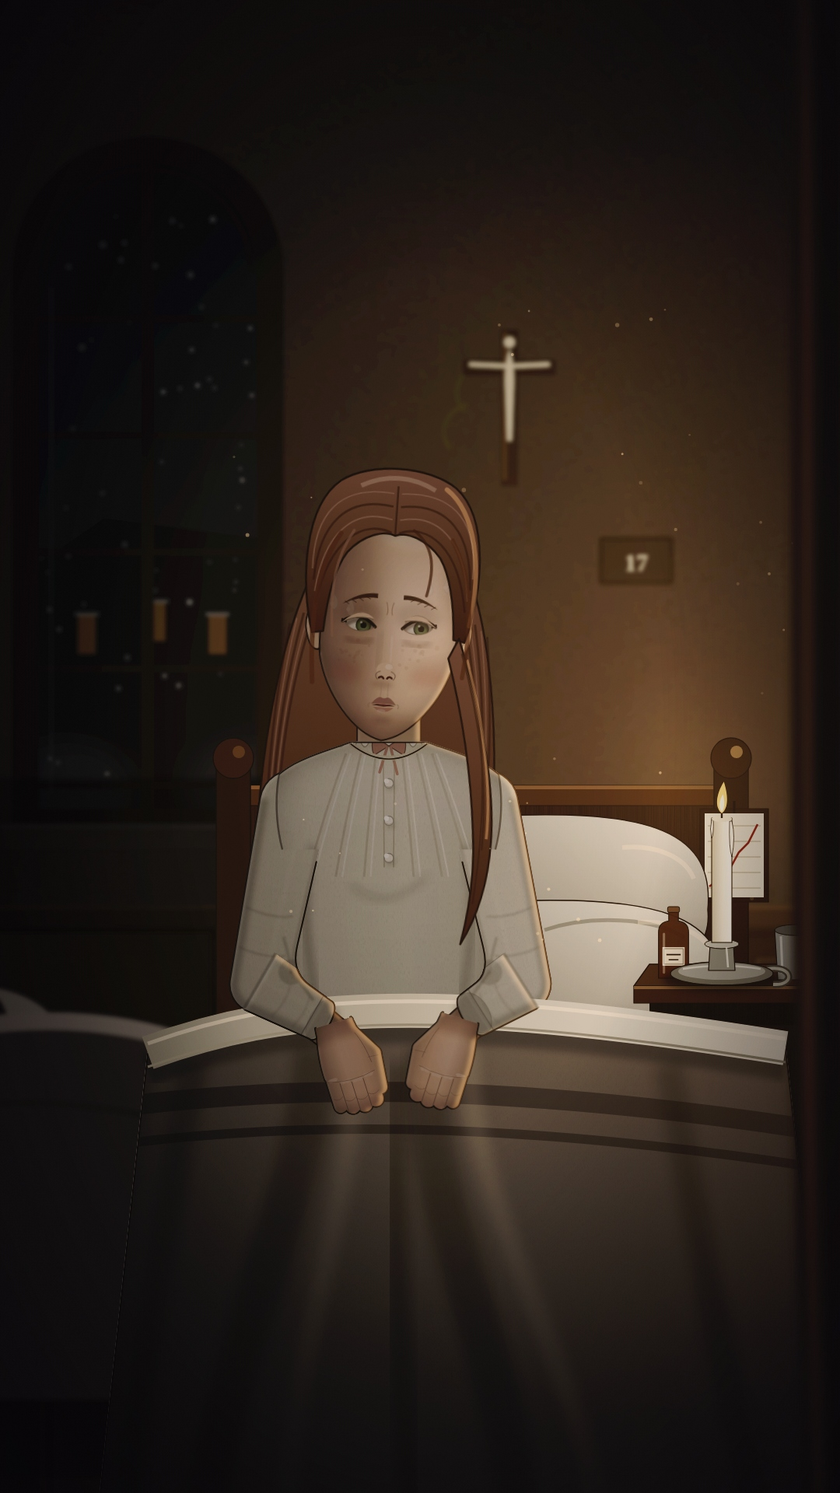
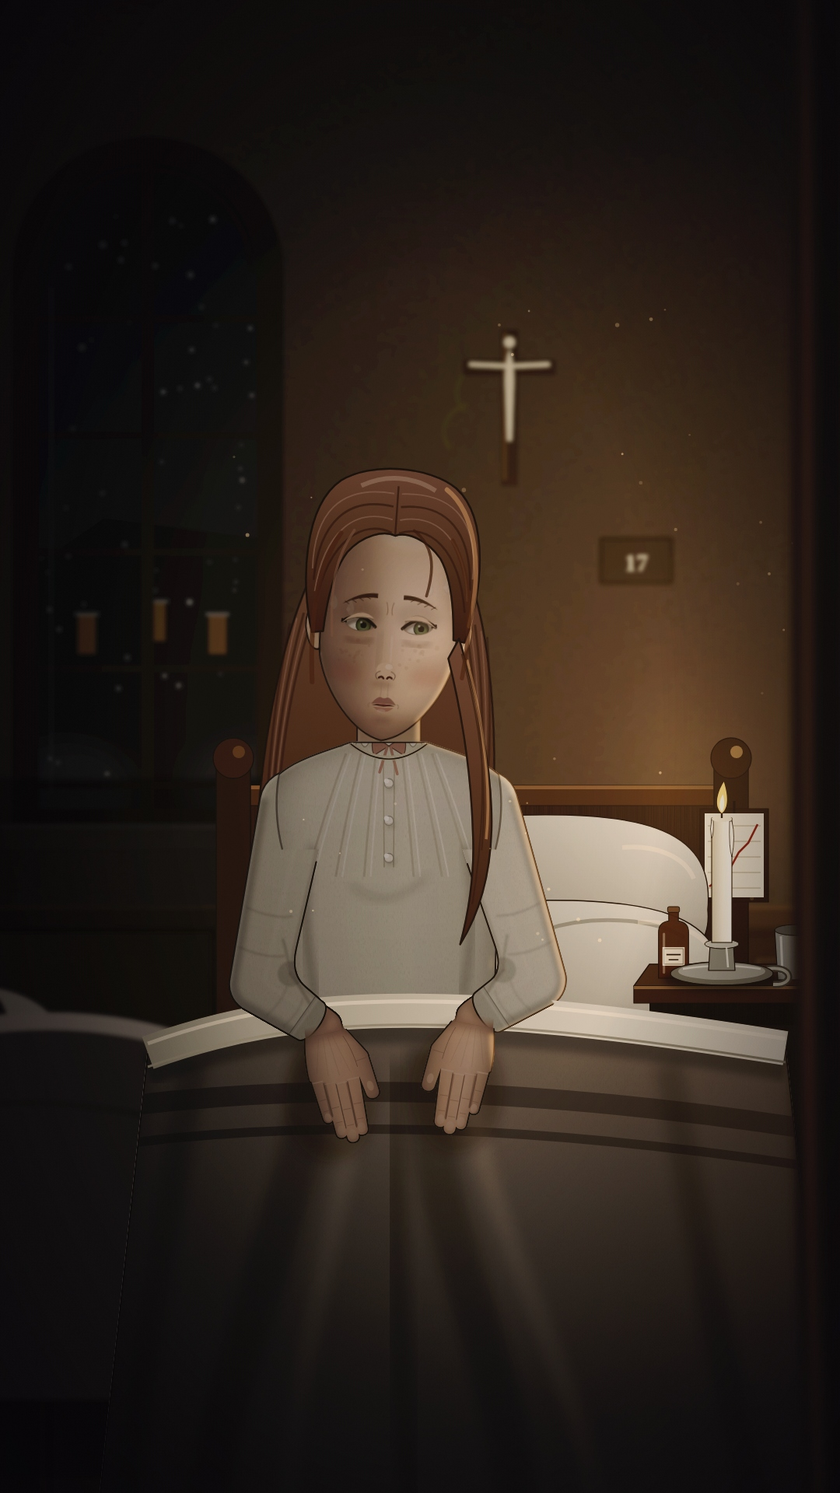
Clean arms and hands: one light pass, a curved wrist, no cut-out look
The user: hands and the arm part "look very off ... make them cleaner and finer so they dont look like cutted pngs".
- stage.js: ST.behind masks furniture (quilt, basin) out wherever the forearms and hands are, so they keep the body's
  own light pass (armsOver relit them alone and rimmed their inner edges: the cut-out look); ST.litWith lights a held
  prop and its detached fist with the body in one pass; window.DBG_BEHIND shows the mask in red.
- rig3.js (RIG_CRISP only): wristBridge, a wrist that curves from inside the cuff into the hand's own line; the hand's
  top dissolves into it (joinWrist), so no flat top edge or corner shows when the hand bends; no half-transparent
  sleeve-opening disc. Old pages (RIG_HANDS = 1, or not crisp) are unchanged; the Coca-Cola look test keeps its grips.
- Test stills: the mother's hands relaxed on the sheet with contact shadows; your cuffs go into the milky water, filled
  to the brim with the near lip over the arms; Klein's body, cane and fist lit together. Before/after in test_frames/.

Claude-Session: https://claude.ai/code/session_017ekfBmByRicNC7Kuj1gPSk

diff --git a/dark-history/_render/lib/rig3.js b/dark-history/_render/lib/rig3.js
@@ -261,9 +261,14 @@
     const thumbG = thumbOver ? `<g>${outl(`<path d="${thumb}"/>`)}<path d="${thumb}" fill="url(#${id})"/></g>` : '';
     // (the outline runs down both sides of the wrist but not across it: the hand is drawn over its sleeve and meets the
     // wrist below the cuff, where a line across would read as the edge of a glove)
-    const mk = `<mask id="${id}m" maskUnits="userSpaceOnUse" x="${f(-2 * L)}" y="${f(-2 * L)}" width="${f(4 * L)}" height="${f(4 * L)}"><rect x="${f(-2 * L)}" y="${f(-2 * L)}" width="${f(4 * L)}" height="${f(4 * L)}" fill="#fff"/><rect x="${f(-0.138 * L)}" y="${f(-0.4 * L)}" width="${f(0.276 * L)}" height="${f(0.405 * L)}" fill="#000"/></mask>`;
+    // (o.joinWrist, with G.RIG_CRISP on a sleeved arm: the hand's top dissolves over a short band into the wrist piece
+    // drawn under it (wristBridge), and its side outlines start just below where the wrist's take over, so no flat top
+    // edge, corner or line across the wrist shows - the joint reads as one limb, not a hand pinned to a sleeve)
+    const join = !!o.joinWrist;
+    const mk = `<mask id="${id}m" maskUnits="userSpaceOnUse" x="${f(-2 * L)}" y="${f(-2 * L)}" width="${f(4 * L)}" height="${f(4 * L)}"><rect x="${f(-2 * L)}" y="${f(-2 * L)}" width="${f(4 * L)}" height="${f(4 * L)}" fill="#fff"/><rect x="${f((join ? -0.26 : -0.138) * L)}" y="${f(-0.4 * L)}" width="${f((join ? 0.52 : 0.276) * L)}" height="${f((join ? 0.43 : 0.405) * L)}" fill="#000"/></mask>` +
+      (join ? `<linearGradient id="${id}fg" gradientUnits="userSpaceOnUse" x1="0" y1="${f(-0.05 * L)}" x2="0" y2="${f(0.035 * L)}"><stop offset="0" stop-color="#000"/><stop offset="1" stop-color="#fff"/></linearGradient><mask id="${id}f" maskUnits="userSpaceOnUse" x="${f(-L)}" y="${f(-L)}" width="${f(2 * L)}" height="${f(2.6 * L)}"><rect x="${f(-L)}" y="${f(-L)}" width="${f(2 * L)}" height="${f(2.6 * L)}" fill="url(#${id}fg)"/></mask>` : '');
     let g = `<defs>${grd}${mk}<clipPath id="${id}c">${body}</clipPath></defs>` + objBack;
-    g += `<g mask="url(#${id}m)">${outl(body)}</g><g fill="url(#${id})">${body}</g><g clip-path="url(#${id}c)">${sh}</g>${det}${thumbG}`;
+    g += `<g mask="url(#${id}m)">${outl(body)}</g>` + (join ? `<g mask="url(#${id}f)">` : '') + `<g fill="url(#${id})">${body}</g><g clip-path="url(#${id}c)">${sh}</g>` + (join ? '</g>' : '') + `${det}${thumbG}`;
     g += objFront;
     return `<g transform="translate(${f(o.x)},${f(o.y)}) rotate(${f(a * 180 / Math.PI)})">${g}</g>`;
   }
@@ -340,7 +345,9 @@
     const id = uid('sv');
     let body = `<defs><clipPath id="${id}c"><path d="${shape}"/></clipPath></defs><g filter="url(#clothN)"><path d="${shape}" fill="${sl}"/><g clip-path="url(#${id}c)">${shd}<g filter="url(#b1)">${box}${fo}</g>${band}<g filter="url(#b1)">${box}<path d="M${Q(add(add(C0, dn, cb * 0.35), nF, w2 * 0.5))} L${Q(add(add(C0, dn, cb * 0.35), nF, -w2 * 0.5))}" stroke="${shade(sl, 0.32)}" stroke-width="${f(sw * 0.03)}" opacity="0.45"/></g></g></g><path d="${outline}" fill="none" ${ol()}/>`;
     // a forearm coming toward the lens (drawn short) shows the open end of its sleeve, deepening with the foreshortening
-    if (fsK > 0) {
+    // (not with G.RIG_CRISP: half-transparent over light cloth it read as a glassy bubble on the cuff; the wrist piece
+    // now leaves the cuff cleanly at any angle)
+    if (fsK > 0 && !G.RIG_CRISP) {
       const rx = w2 * 0.48, ry = w2 * 0.48 * (0.28 + 0.5 * fsK), r = Math.atan2(dn[1], dn[0]) * 180 / Math.PI + 90, oc = add(Wc, dn, -ry * 0.25);
       body += `<g opacity="${f(0.6 * fsK)}"><ellipse cx="${f(oc[0])}" cy="${f(oc[1])}" rx="${f(rx)}" ry="${f(ry)}" transform="rotate(${f(r)},${f(oc[0])},${f(oc[1])})" fill="${shade(sl, -0.42)}" stroke="${shade(sl, -0.6)}" stroke-width="1.2" ${NS}/></g>`;
     }
@@ -366,6 +373,23 @@
     const d = `M${f(a1[0])},${f(a1[1])} L${f(b1[0])},${f(b1[1])} A${f(w2 / 2)},${f(w2 / 2)} 0 0 0 ${f(b2[0])},${f(b2[1])} L${f(a2[0])},${f(a2[1])} A${f(w1 / 2)},${f(w1 / 2)} 0 0 0 ${f(a1[0])},${f(a1[1])}Z`;
     const r = Math.atan2(-dx, dy) * 180 / Math.PI;
     return `<defs>${g}</defs><path d="${d}" fill="url(#${id})" ${ol()}/>` + (extra ? `<g transform="translate(${f(A[0])},${f(A[1])}) rotate(${f(r)})">${extra}</g>` : '');
+  }
+  // (G.RIG_CRISP) the wrist as one smooth piece from inside the cuff to the back of the hand. Its sides leave the cuff
+  // along the forearm and curve into the hand's own line, as wide as the cuff opening at one end and as the back of the
+  // hand at the other, so a hand bent at the wrist never shows the corner of its flat top edge standing out past a
+  // straight wrist (a capsule laid along the forearm did: the hand read as a cut-out pinned on - the user, 2026-11-08:
+  // "they look like cutted pngs"). Outlined along its two sides only; the hand is drawn over its lower end.
+  function wristBridge(Wc, dn, W, hn, wIn, cw, HL, col) {
+    const add = (p, v, k) => [p[0] + v[0] * k, p[1] + v[1] * k], Q = p => `${f(p[0])},${f(p[1])}`;
+    const nF = [-dn[1], dn[0]]; let nH = [-hn[1], hn[0]]; if (nF[0] * nH[0] + nF[1] * nH[1] < 0) nH = [-nH[0], -nH[1]];
+    const a0 = add(Wc, dn, -wIn), wa = cw * 0.46, wb = HL * 0.152, b0 = add(W, hn, -0.045 * HL), b1 = add(W, hn, 0.12 * HL);
+    const k = 0.5 * Math.hypot(b0[0] - Wc[0], b0[1] - Wc[1]) + 0.5;
+    const S = s => { const p1 = add(Wc, nF, s * wa), q0 = add(b0, nH, s * wb); return { p0: add(a0, nF, s * wa), p1, q0, q1: add(b1, nH, s * wb * 0.98), c1: add(p1, dn, k), c2: add(q0, hn, -k) }; };
+    const A = S(1), B = S(-1), id = uid('wb'), g1 = add(W, nH, wb), g2 = add(W, nH, -wb);
+    const d = `M${Q(A.p0)} L${Q(A.p1)} C${Q(A.c1)} ${Q(A.c2)} ${Q(A.q0)} L${Q(A.q1)} L${Q(B.q1)} L${Q(B.q0)} C${Q(B.c2)} ${Q(B.c1)} ${Q(B.p1)} L${Q(B.p0)}Z`;
+    const grd = `<linearGradient id="${id}" gradientUnits="userSpaceOnUse" x1="${f(g1[0])}" y1="${f(g1[1])}" x2="${f(g2[0])}" y2="${f(g2[1])}"><stop offset="0" stop-color="${shade(col, -0.22)}"/><stop offset="0.4" stop-color="${shade(col, 0.05)}"/><stop offset="0.7" stop-color="${col}"/><stop offset="1" stop-color="${shade(col, -0.2)}"/></linearGradient>`;
+    const side = s => `M${Q(s.p1)} C${Q(s.c1)} ${Q(s.c2)} ${Q(s.q0)} L${Q(s.q1)}`;
+    return `<defs>${grd}</defs><path d="${d}" fill="url(#${id})"/><path d="${side(A)} ${side(B)}" fill="none" ${ol()}/>`;
   }
   // the sore on the front of a bare shin just above the ankle (person-local), shared by the drawing and the shots
   function woundPt(D, s) { return [s * D.legX - s * D.legW * 0.06, -D.foot * 0.98]; }
@@ -560,7 +584,8 @@
     const wSkin = hSkin === C.skin ? mix(C.skin, '#c97a62', 0.14) : hSkin;
     const wrist = bare ? '' : V2 ? limb([W[0] - dn[0] * (cutB + sw * 0.3), W[1] - dn[1] * (cutB + sw * 0.3)], [W[0] + hn[0] * HLn * 0.08, W[1] + hn[1] * HLn * 0.08], HLn * 0.3, HLn * 0.285, wSkin)
       : limb([W[0] - dn[0] * sw * 0.4, W[1] - dn[1] * sw * 0.4], [W[0] + hn[0] * D.hand * 0.06, W[1] + hn[1] * D.hand * 0.06], D.hand * 0.36, D.hand * 0.34, wSkin);
-    const handSvg = o.pose === 'none' ? '' : (V2 ? handV2 : hand)({ x: W[0], y: W[1], dir, side, facing: o.facing || 'back', thumb: o.thumb || 'auto', pose: o.pose || 'relaxed', size: D.hand, skin: hSkin, hold: o.hold, holdFront: o.holdFront, holdRot: o.holdRot, nails: (o.glove ?? C.glove) ? null : (o.nails ?? C.nails) });
+    const joinWrist = !!(G.RIG_CRISP && V2 && !bare);
+    const handSvg = o.pose === 'none' ? '' : (V2 ? handV2 : hand)({ x: W[0], y: W[1], dir, side, facing: o.facing || 'back', thumb: o.thumb || 'auto', pose: o.pose || 'relaxed', size: D.hand, skin: hSkin, hold: o.hold, holdFront: o.holdFront, holdRot: o.holdRot, nails: (o.glove ?? C.glove) ? null : (o.nails ?? C.nails), joinWrist });
     const cuffShadow = V2 && !bare ? (() => { const c = add(Wc, dn, HLn * 0.06), r = Math.atan2(-dn[0], dn[1]) * 180 / Math.PI; return `<ellipse cx="${f(c[0])}" cy="${f(c[1])}" rx="${f(fw2 * 0.5)}" ry="${f(HLn * 0.075)}" transform="rotate(${f(r)},${f(c[0])},${f(c[1])})" fill="#1e0c04" opacity="0.34" filter="url(#b4)"/>`; })()
       : `<ellipse cx="${f(W[0] + hn[0] * sw * 0.18)}" cy="${f(W[1] + hn[1] * sw * 0.18)}" rx="${f(sw * 0.36)}" ry="${f(sw * 0.26)}" fill="#1e0c04" opacity="0.35" filter="url(#b4)"/>`;
     const up = `<g filter="url(#clothN)">${upper}</g>${upperLines}${innerShade}`;
@@ -583,12 +608,13 @@
       if (o.pose2 && o.poseK > 0 && o.poseK < 1 && o.pose !== 'none' && o.pose2 !== 'none') {
         // (between two flat poses - relaxed and open, same side to the lens - the fingers and thumb move in between; any other
         // change of pose dissolves quickly)
-        const hO = { x: W[0], y: W[1], dir, side, thumb: o.thumb || 'auto', size: D.hand, skin: hSkin, hold: o.hold, holdFront: o.holdFront, holdRot: o.holdRot, nails: (o.glove ?? C.glove) ? null : (o.nails ?? C.nails) }, flat = q => q === 'relaxed' || q === 'open';
+        const hO = { x: W[0], y: W[1], dir, side, thumb: o.thumb || 'auto', size: D.hand, skin: hSkin, hold: o.hold, holdFront: o.holdFront, holdRot: o.holdRot, nails: (o.glove ?? C.glove) ? null : (o.nails ?? C.nails), joinWrist }, flat = q => q === 'relaxed' || q === 'open';
         if (flat(o.pose) && flat(o.pose2) && (o.facing || 'back') === (o.facing2 || 'back')) handG = `<g filter="url(#skinS)">${handV2(Object.assign({}, hO, { pose: o.pose, facing: o.facing || 'back', morphTo: o.pose2, morphK: o.poseK }))}</g>`;
         else { const h2 = handV2(Object.assign({}, hO, { pose: o.pose2, facing: o.facing2 || 'back' })); handG = `<g filter="url(#skinS)" opacity="${f(1 - o.poseK)}">${handSvg}</g><g filter="url(#skinS)" opacity="${f(o.poseK)}">${h2}</g>`; }
       }
       const gS = { sh, E, Wc, ud, dn, ul, fcl, w0: sw, w1: sw * 0.84, w2: fw2 * (1 + 0.2 * fsK), sl, lat, sw, fsK };
-      const wIn = Math.min(sw * 0.3, fcl * 0.5), wristS = limb([Wc[0] - dn[0] * wIn, Wc[1] - dn[1] * wIn], [W[0] + hn[0] * HLn * 0.08, W[1] + hn[1] * HLn * 0.08], HLn * 0.3, HLn * 0.285, wSkin);
+      const wIn = Math.min(sw * 0.3, fcl * 0.5), wristS = G.RIG_CRISP ? wristBridge(Wc, dn, W, hn, wIn, gS.w2, HLn, wSkin)
+        : limb([Wc[0] - dn[0] * wIn, Wc[1] - dn[1] * wIn], [W[0] + hn[0] * HLn * 0.08, W[1] + hn[1] * HLn * 0.08], HLn * 0.3, HLn * 0.285, wSkin);
       const upS = sleeveV2(gS, 'all');
       if (!o.detachHand) lo += `<g filter="url(#skinS)">${wristS}</g>${cuffShadow}`;
       lo += sleeveV2(gS, 'fore');

diff --git a/dark-history/_render/video/shotsT1.js b/dark-history/_render/video/shotsT1.js
@@ -5,21 +5,25 @@
 // The clean rig (G.RIG_CRISP), the cast dressed with tailor.js, the shot helpers of stage.js, the rig's own hands.
 (function (G) {
   const X = G.ENG, Q = G.QCAST, S = G.SETS, C = G.CINE, R = G.RIG, ST = G.STAGE, { f, ol } = G.RIG;
-  const { lit, up, armsOver, handsLit, gripAt, still, clipTop } = ST;
+  const { lit, up, behind, litWith, gripAt, still, clipTop } = ST;
 
   // ======================================================= WARD: the mother, the candle at her right
   const LW = { from: [1, 0.05], shadow: '#0a0604', shadowOp: 0.6, floor: '#140c06', floorOp: 0.5, contactOp: 0, key: '#ffd8a0', keyAdd: 0.12,
     rims: [{ from: [1, -0.1], col: '#ffb060', w: 6, op: 0.5 }, { from: [-0.8, -0.6], col: '#b0b2b0', w: 4, op: 0.12 }], face: { col: '#ffd0a0', op: 0.2 } };
   X.shot('WARD', 0, 1, t => {
     const cam = [540, 960, 1, 0]; X.CAM = cam;
-    // sitting up against the pillows, the blanket to her waist, both fists clutching the turned-down sheet; her eyes on
-    // the door at the right, where the doctors come in
+    // sitting up against the pillows, the blanket to her waist, both hands resting on the turned-down sheet, the fingers
+    // over its fold; her eyes on the door at the right, where the doctors come in
     const o = still(500, 2330, 1.2, { tilt: 4, breath: 0.5 });
+    const hR = [-70, -836], hL = [92, -846], dR = [0.22, 0.97], dL = [-0.18, 0.98];
     const P = up(Q.mother(Object.assign(o, { noLegs: true, face: { expr: 'fear', look: [0.55, -0.04], lid: 0.12, brows: [-10, -2], mouth: 'parted', open: 0.1, sweat: 0.18, blush: 0.22, bags: 0.4 },
-      armR: { hand: [-58, -838], dir: [0.3, 0.95], pose: 'fist', facing: 'back' },
-      armL: { hand: [75, -843], dir: [-0.3, 0.95], pose: 'fist', facing: 'back' } })), o);
+      armR: { hand: hR, dir: dR, pose: 'relaxed', facing: 'back' },
+      armL: { hand: hL, dir: dL, pose: 'relaxed', facing: 'back' } })), o);
     const art = Q.motherArt(0.5);
-    const chars = Q.headArt(P, o, art.back) + lit(P, LW) + S.t1Quilt(t) + armsOver(P, LW, 'RL') + Q.headArt(P, o, art.front);
+    // the blanket goes over her body but never over her forearms and hands (they stay in the body's one light pass);
+    // a soft contact shadow under each hand on the sheet, toward the dark side
+    const Lh = Q.HAND.mother * R.HAND_K * o.s, sh = [[hR, dR], [hL, dL]].map(([h, d]) => { const w = R.toWorld(o, h), c = [w[0] + d[0] * Lh * 0.5 - 8, w[1] + d[1] * Lh * 0.5 + 10]; return `<ellipse cx="${f(c[0])}" cy="${f(c[1])}" rx="${f(Lh * 0.36)}" ry="${f(Lh * 0.5)}" fill="#1a0c04" opacity="0.32" filter="url(#b8)"/>`; }).join('');
+    const chars = Q.headArt(P, o, art.back) + lit(P, LW) + behind(P, 't1wq', S.t1Quilt(t) + sh) + Q.headArt(P, o, art.front);
     const layers = S.t1Ward(t);
     layers.push({ p: 1, svg: S.t1WardBed(t) + chars }, { p: 1.02, svg: S.t1WardLight(t) }, { p: 1.25, svg: S.t1WardFg(t) });
     return X.compose(layers, cam) + C.vignette(0.55, '#060302', 0.4);
@@ -30,17 +34,19 @@
     rims: [{ from: [1, -0.3], col: '#ffb868', w: 6, op: 0.5 }, { from: [-1, -0.2], col: '#c8a888', w: 4, op: 0.16 }], face: { col: '#ffd0a0', op: 0.2 } };
   // the whole scene as layers (KLEIN draws it again, small and hazed, behind the professor)
   const basinScene = (t, opts = {}) => {
-    const o = still(540, 2330, 1.2, { tilt: -3 });
-    // both wrists at the waterline, the hands down in the chlorine water, backs to camera
-    const wR = [455, 1392], wL = [625, 1392];
+    // (a little lower than the first draft, so the arms reach down far enough for the cuffs to go into the water: no bare
+    // wrist between the sleeve and the waterline)
+    const o = still(540, 2380, 1.2, { tilt: -3 });
+    // both wrists under the waterline, the hands down in the chlorine water, backs to camera
+    const wR = [452, 1430], wL = [628, 1430];
     const P = up(Q.semm(Object.assign(o, { noLegs: true, face: { expr: 'grim', look: [0.05, 0.5], lid: 0.22, brows: [7, -3], mouth: 'tight', sweat: 0.1 },
       armR: { hand: R.toLocal(o, wR), dir: [0.12, 1], pose: 'open', facing: 'back' },
       armL: { hand: R.toLocal(o, wL), dir: [-0.12, 1], pose: 'open', facing: 'back' } })), o);
     const body = clipTop('t1bTop' + (opts.id || ''), S.T1B.TOP, Q.withArt(P, o, Q.semmArt(), lit(P, LB)));
-    // the hands go below the bowl's front wall: cut the redrawn arms at its foot so no fingertip shows under it
-    const arms = clipTop('t1aTop' + (opts.id || ''), S.T1B.BOWL[1] + 100, armsOver(P, LB, 'RL'));
-    const wr = [[wR[0] - 4, 0], [wL[0] + 4, 9]];
-    const front = S.t1Stand(t) + S.t1BowlBack() + S.t1Water(t, wr, 'back') + arms + S.t1Water(t, wr, 'front') + S.t1BowlFront() + S.t1StandProps(t) + S.t1Towel();
+    // the bowl's far side and the far half of the water go over the body but never over the forearms (one light pass
+    // for the whole figure); the near half of the water and the bowl's front wall then go over the arms
+    const wr = [[wR[0] - 2, 0], [wL[0] + 2, 9]];
+    const front = S.t1Stand(t) + behind(P, 't1bb' + (opts.id || ''), S.t1BowlBack() + S.t1Water(t, wr, 'back')) + S.t1Water(t, wr, 'front') + S.t1BowlFront() + S.t1StandProps(t) + S.t1Towel();
     const layers = S.t1Door(t, opts);
     layers.push({ p: 1, svg: body + front }, { p: 1.02, svg: S.t1DoorLight(t) });
     if (!opts.noFg) layers.push({ p: 1.25, svg: S.t1DoorFg(t) });
@@ -76,7 +82,9 @@
     const P = up(Q.klein(Object.assign(o, { noLegs: true, face: { expr: 'stern', mouth: 'closed', cd: -1.4, look: [-0.62, 0.1], lid: 0.42, brows: [10, -4], bags: 0.5 },
       armR: gripAt(o, Q.HAND.klein, gC, [1, 0.04], { facing: 'back', detachHand: true }),
       armL: { hand: [172, -840], dir: [-0.7, 0.7], pose: 'relaxed', facing: 'back', fs: 1, elbow: 'free' } })), o);
-    const chars = Q.withArt(P, o, Q.kleinArt(), lit(P, LK)) + cane(gC[0], gC[1]) + handsLit(P, LK, 'R');
+    // body, cane and the fist on it lit in ONE pass (a hand lit on its own gets a rim round its own outline and reads
+    // as pasted on); the light's box widened to take in the crook and the shaft
+    const chars = Q.withArt(P, o, Q.kleinArt(), litWith(P, LK, P.svg + cane(gC[0], gC[1]) + P.handR, [gC[0] - 130, gC[1] - 140, gC[0] + 40, 2100]));
     const light = C.radial(1180, 520, 900, '#ffb060', 0.2) + `<rect x="-200" y="-200" width="1480" height="2320" fill="url(#t1kFall)"/>`;
     const fall = S.lg('t1kFall', [[0, '#000', 0.35], [0.4, '#000', 0.12], [1, '#000', 0]], 0, 0, 1, 0);
     return back + X.compose([{ p: 1, svg: fall + chars }, { p: 1.02, svg: light }], cam) + C.vignette(0.55, '#060302', 0.4);

diff --git a/dark-history/_render/video/setsT1.js b/dark-history/_render/video/setsT1.js
@@ -221,7 +221,9 @@
   // waterline with rings round it and the hands are only a shadow under the surface
   S.T1B.WET = 1404;
   S.t1Water = (t, wrists = [], part = 'back') => {
-    const [cx, cy, rx, ry] = S.T1B.BOWL, wy = cy + 12, wrx = rx - 30, wry = ry - 16, ye = S.T1B.WET, id = 't1wat' + part;
+    // (filled to the brim: the surface is the bowl's inner rim, so no gap between the water's edge and the rim shows
+    // the forearms behind it)
+    const [cx, cy, rx, ry] = S.T1B.BOWL, wy = cy + 3, wrx = rx - 14, wry = ry - 9, ye = S.T1B.WET, id = 't1wat' + part;
     const ring = (x, rr, op, w2, half) => half ? `<path d="M${f(x - rr)},${ye} A${f(rr)},${f(rr * 0.22)} 0 0 0 ${f(x + rr)},${ye}" fill="none" stroke="#f8f4e8" stroke-width="${f(w2)}" opacity="${f(op)}"/>` : `<ellipse cx="${f(x)}" cy="${ye}" rx="${f(rr)}" ry="${f(rr * 0.22)}" fill="none" stroke="#f8f4e8" stroke-width="${f(w2)}" opacity="${f(op)}"/>`;
     let g = `<defs><clipPath id="${id}"><ellipse cx="${cx}" cy="${wy}" rx="${wrx}" ry="${wry}"/></clipPath><clipPath id="${id}h"><rect x="${cx - rx}" y="${part === 'back' ? cy - ry - 10 : ye}" width="${rx * 2}" height="${part === 'back' ? ye - (cy - ry - 10) : 200}"/></clipPath></defs>`;
     g += `<g clip-path="url(#${id}h)"><g clip-path="url(#${id})">`;
@@ -229,9 +231,10 @@
       g += `<rect x="${cx - rx}" y="${cy - ry}" width="${rx * 2}" height="${ry * 2}" fill="#9a9c90" opacity="0.92"/>`;
       for (const [x, ph] of wrists) for (let i = 0; i < 3; i++) { const rr = 30 + i * 20 + ((t * 30 + ph) % 20); g += ring(x, rr, 0.5 - i * 0.14, 2 - i * 0.5, false); }
     } else {
-      g += lg('t1wG', [[0, '#a8aa9e'], [0.6, '#bfc0b4'], [1, '#d2d2c6']]) + `<rect x="${cx - rx}" y="${ye}" width="${rx * 2}" height="${ry * 2}" fill="url(#t1wG)" opacity="0.93"/>`;
+      // milky and opaque: the hands under it are only a soft shadow (seen through, their edges read as odd wedges)
+      g += lg('t1wG', [[0, '#a8aa9e'], [0.6, '#bfc0b4'], [1, '#d2d2c6']]) + `<rect x="${cx - rx}" y="${ye}" width="${rx * 2}" height="${ry * 2}" fill="url(#t1wG)"/>`;
       g += `<ellipse cx="${cx + 120}" cy="${ye + 10}" rx="74" ry="10" fill="#ffd890" opacity="0.5" filter="url(#b4)"/><path d="M${cx + 66},${ye + 9} q30,-4 60,0 t50,0" stroke="#fff4d8" stroke-width="2.5" fill="none" opacity="0.7"/>`;
-      for (const [x, ph] of wrists) { g += `<ellipse cx="${f(x)}" cy="${ye + 12}" rx="40" ry="10" fill="#5a5448" opacity="0.18" filter="url(#b4)"/>`; for (let i = 0; i < 3; i++) { const rr = 30 + i * 20 + ((t * 30 + ph) % 20); g += ring(x, rr, 0.7 - i * 0.18, 2.4 - i * 0.6, true); } }
+      for (const [x, ph] of wrists) { g += `<ellipse cx="${f(x)}" cy="${ye + 16}" rx="44" ry="15" fill="#5a5040" opacity="0.26" filter="url(#b8)"/>`; for (let i = 0; i < 3; i++) { const rr = 30 + i * 20 + ((t * 30 + ph) % 20); g += ring(x, rr, 0.7 - i * 0.18, 2.4 - i * 0.6, true); } }
     }
     g += `</g></g>`;
     return g;
@@ -239,7 +242,9 @@
   // ... and its outer wall in front (over the hands): white glaze, a gilt band, the lantern's light on the right
   S.t1BowlFront = () => {
     const [cx, cy, rx, ry] = S.T1B.BOWL;
-    let g = lg('t1bF', [[0, '#5e584e'], [0.32, '#a8a294'], [0.74, '#e2dccf'], [1, '#aaa292']], 0, 0, 1, 0);
+    // the near half of the rim's lip (between the outer and the inner rim) is in front of the forearms too
+    let g = `<path d="M${cx - rx},${cy} A${rx},${ry} 0 0 0 ${cx + rx},${cy} L${cx + rx - 14},${cy + 3} A${rx - 14},${ry - 9} 0 0 1 ${cx - rx + 14},${cy + 3}Z" fill="#e2dccf"/>`;
+    g += lg('t1bF', [[0, '#5e584e'], [0.32, '#a8a294'], [0.74, '#e2dccf'], [1, '#aaa292']], 0, 0, 1, 0);
     g += `<path d="M${cx - rx},${cy} A${rx},${ry} 0 0 0 ${cx + rx},${cy} C${cx + rx - 6},${cy + 70} ${cx + 150},${cy + 104} ${cx + 110},${cy + 112} L${cx - 110},${cy + 112} C${cx - 150},${cy + 104} ${cx - rx + 6},${cy + 70} ${cx - rx},${cy}Z" fill="url(#t1bF)" ${ol(1.6)}/>`;
     g += `<path d="M${cx - rx + 14},${cy + 26} Q${cx},${cy + 92} ${cx + rx - 14},${cy + 26}" stroke="#b8902e" stroke-width="5" fill="none" opacity="0.85"/><path d="M${cx - rx + 22},${cy + 36} Q${cx},${cy + 100} ${cx + rx - 22},${cy + 36}" stroke="#b8902e" stroke-width="1.6" fill="none" opacity="0.7"/>`;
     g += `<path d="M${cx + 120},${cy + 40} C${cx + 160},${cy + 60} ${cx + 176},${cy + 80} ${cx + 150},${cy + 100}" stroke="#fff" stroke-width="10" fill="none" opacity="0.6" stroke-linecap="round"/><path d="M${cx - rx},${cy} A${rx},${ry} 0 0 0 ${cx + rx},${cy}" stroke="#fff" stroke-width="3.5" fill="none" opacity="0.65"/>`;

diff --git a/dark-history/_render/lib/stage.js b/dark-history/_render/lib/stage.js
@@ -13,6 +13,30 @@
   ST.up = (P, o) => { P.chest = o.y - 1000 * o.s; return P; };
   ST.lit = (P, L) => { const r = G.CINE.lit(Object.assign({}, P, { info: ST.infoOf(P) }), Object.assign(V(), L)); return r.cast + r.body; };
   ST.armsOver = (P, L, which = 'RL') => G.CINE.lit({ svg: (which.includes('R') ? P.armRsvg : '') + (which.includes('L') ? P.armLsvg : ''), info: ST.infoOf(P) }, Object.assign(V(), L)).body;
+  // Prefer ST.behind to armsOver. Furniture drawn after a lit figure (a quilt over the lap, a basin, a counter) that the
+  // figure's forearms and hands must stay in front of is masked out wherever those forearms and hands are, so they keep
+  // the body's own light pass. (armsOver relights the arms on their own: the rim then runs round each arm's own outline,
+  // the inner edge against the body too, and the arms read as cut-out pieces laid on top - the user, 2026-11-08:
+  // "they look like cutted pngs".) The mask is the arms' exact silhouette (alpha sharpened so soft shadows leave no
+  // ghost), so the furniture meets the arm's ink outline cleanly.
+  ST.behind = (P, id, svg, which = 'RL') => {
+    const arms = (which.includes('R') ? P.armRsvg : '') + (which.includes('L') ? P.armLsvg : '');
+    const E = P.info && P.info.ext, m = 120, [x0, y0, x1, y1] = E ? [E[0] - m, E[1] - m, E[2] + m, E[3] + m] : [-1500, -1500, 4000, 4000];
+    const R = `x="${Math.round(x0)}" y="${Math.round(y0)}" width="${Math.round(x1 - x0)}" height="${Math.round(y1 - y0)}"`;
+    // (window.DBG_BEHIND = true: also paint the mask's silhouette red over the frame)
+    const dbg = G.DBG_BEHIND ? `<defs><filter id="${id}d" filterUnits="userSpaceOnUse" ${R} color-interpolation-filters="sRGB"><feColorMatrix type="matrix" values="0 0 0 0 1  0 0 0 0 0  0 0 0 0 0  0 0 0 3 -1"/></filter></defs><g filter="url(#${id}d)" opacity="0.5">${arms}</g>` : '';
+    return `<defs><filter id="${id}k" filterUnits="userSpaceOnUse" ${R} color-interpolation-filters="sRGB"><feColorMatrix type="matrix" values="0 0 0 0 0  0 0 0 0 0  0 0 0 0 0  0 0 0 3 -1"/></filter>` +
+      `<mask id="${id}" maskUnits="userSpaceOnUse" x="-1500" y="-1500" width="5500" height="5500"><rect x="-1500" y="-1500" width="5500" height="5500" fill="#fff"/><g filter="url(#${id}k)">${arms}</g></mask></defs><g mask="url(#${id})">${svg}</g>` + dbg;
+  };
+  // a figure lit together with what it holds (a prop drawn over the body, the detached hand over the prop) in ONE pass:
+  // rims only on the outer outline of the whole group. ext [x0, y0, x1, y1] widens the light's box for a prop that
+  // reaches past the body (the box clips, and a prop cut at its edge seems to shake)
+  ST.litWith = (P, L, svg, ext) => {
+    const I = ST.infoOf(P), E0 = I.ext;
+    const ext2 = ext ? (E0 ? [Math.min(E0[0], ext[0]), Math.min(E0[1], ext[1]), Math.max(E0[2], ext[2]), Math.max(E0[3], ext[3])] : ext) : E0;
+    const r = G.CINE.lit({ svg, info: Object.assign({}, I, { ext: ext2 }) }, Object.assign(V(), L));
+    return r.cast + r.body;
+  };
   ST.handsLit = (P, L, which = 'RL') => G.CINE.lit({ svg: (which.includes('R') ? P.handR || '' : '') + (which.includes('L') ? P.handL || '' : ''), info: ST.infoOf(P) }, Object.assign(V(), L)).body;
   // an arm whose grip slot sits exactly on world point Gw, the fingers along world direction dW (hand = rig hand size)
   ST.gripAt = (o, hand, Gw, dW, extra = {}) => { const R = G.RIG, dl = nrm(R.dirLocal(o, dW)), gl = R.toLocal(o, Gw), gy = R.gripSlot ? R.gripSlot(hand) : 0.33 * hand; return Object.assign({ hand: [gl[0] - dl[0] * gy, gl[1] - dl[1] * gy], dir: dl, pose: 'grip', facing: 'back' }, extra); };
